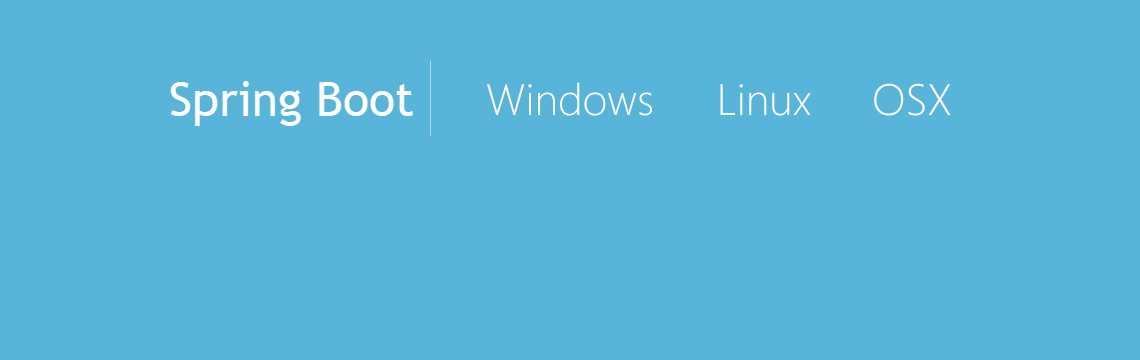
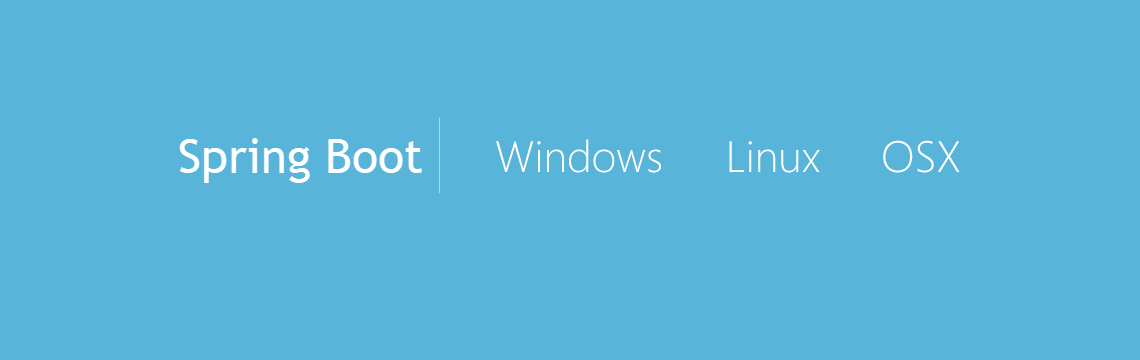
Index Carousel Resize

diff --git a/JavaCampus/src/main/resources/static/css/modern-business.css b/JavaCampus/src/main/resources/static/css/modern-business.css
@@ -8,7 +8,7 @@ body {
 }
 
 .carousel-item {
-  height: 20vh;
+  height: 25vh;
   min-height: 360px;
   background: no-repeat center center scroll;
   -webkit-background-size: cover;
